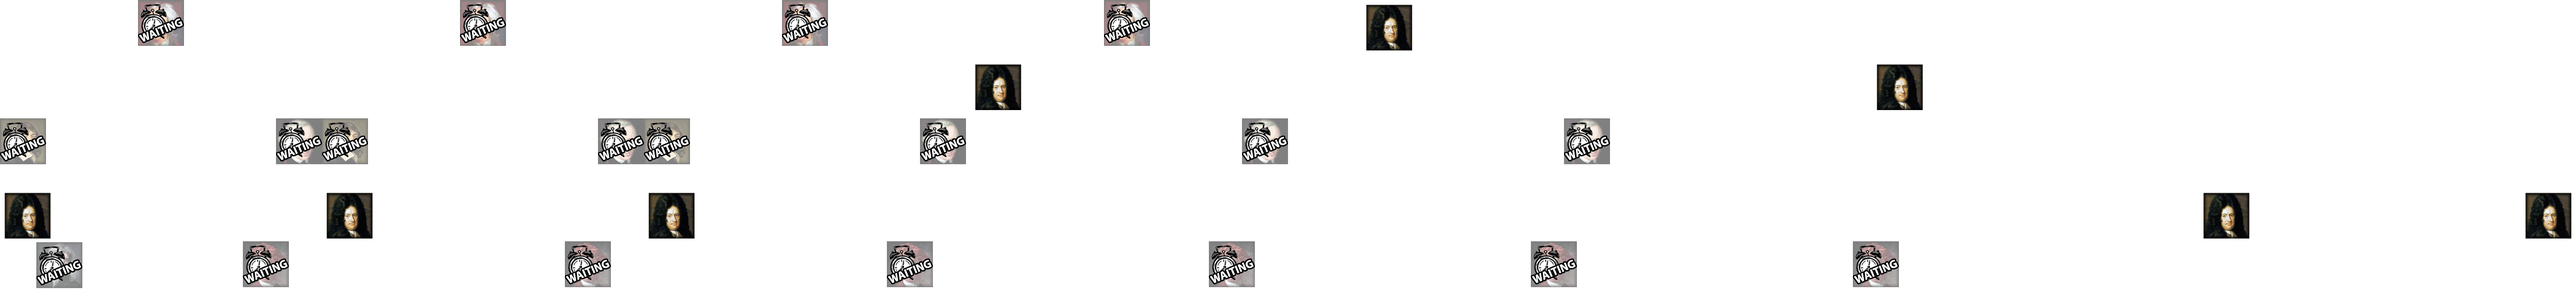
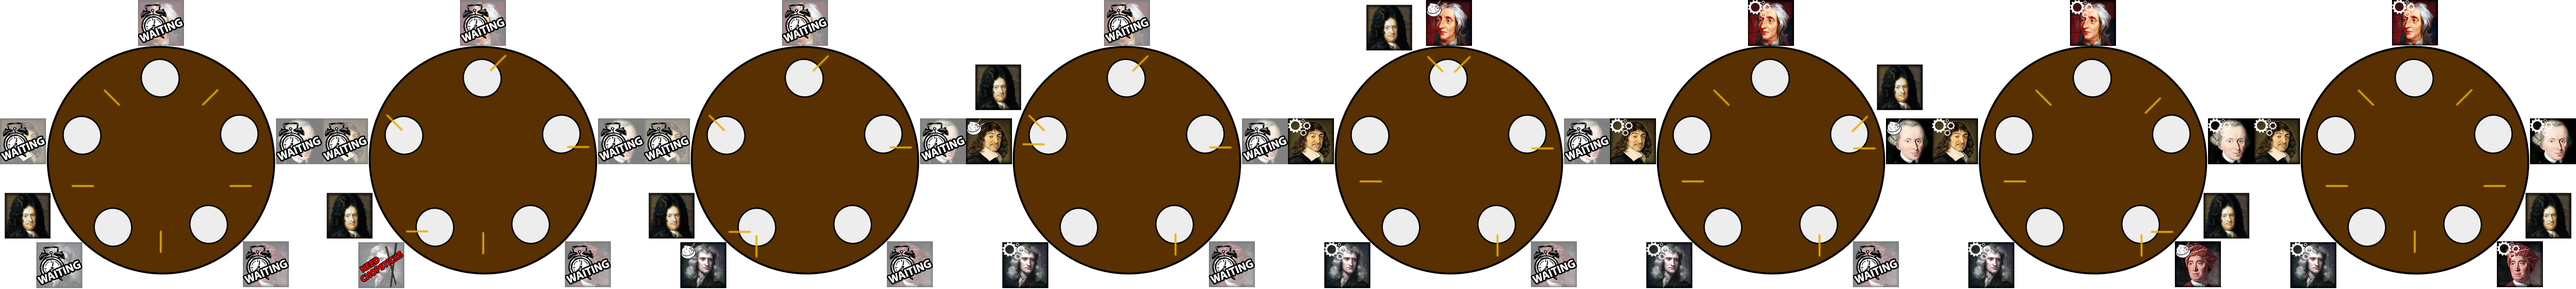
Removes dead code Fixes misaligned arbitrator Fixes animation speedup

diff --git a/PPPP/code.php b/PPPP/code.php
@@ -1,6 +1,3 @@
-<?php
-session_start();
-?>
 <!DOCTYPE html>
 <!-- Latest compiled and minified CSS -->
 <link rel="stylesheet" href="css/bootstrap.css">
@@ -15,22 +12,18 @@ $PID =  $_GET["PID"];
 var sprite_table;
 var sprite_arbitrator;
 
+var test = 0;
+
 var table_image = new Image();
 var numbers_image = new Image();
 var arbitrator_image = new Image();
 
-var sprite_deadlock = new Image();
-sprite_deadlock.src = "code_block_assets/fail_deadlock.png";
-
-var sprite_starvation = new Image();
-sprite_starvation.src = "code_block_assets/fail_starvation.png";
-
 function sprite (options) {
-
+				
     var that = {},
         frameIndex = 0,
         tickCount = 0,
-		ticksPerFrame = 240,
+		ticksPerFrame = 240 * test,
 		numberOfFrames = options.numberOfFrames || 1;
 
     that.context = options.context;
@@ -39,7 +32,7 @@ function sprite (options) {
     that.image = options.image;
 
 	that.render = function () {
-
+			
 		// Clear the canvas
     	that.context.clearRect(0, 0, that.width, that.height);
 
@@ -61,13 +54,13 @@ function sprite (options) {
 	that.update = function () {
 
         tickCount += 1;
-
+			
         if (tickCount > ticksPerFrame) {
-
+        
         	tickCount = 0;
-
+        	
 			// If the current frame index is in range
-            if (frameIndex < numberOfFrames - 1) {
+            if (frameIndex < numberOfFrames - 1) {	
                 // Go to the next frame
                 frameIndex += 1;
 			}
@@ -83,7 +76,7 @@ function sprite (options) {
 function animationLoop () {
 
   window.requestAnimationFrame(animationLoop);
-
+  
   sprite_table.update();
   sprite_table.render();
   if(sprite_arbitrator) {
@@ -92,7 +85,6 @@ function animationLoop () {
   }
 }
 
-var test = 0;
 var dpBlocks = ["do_action","if_too_hungry","release_sticks","report_starvation","exit_failure","close1","if_not_full","if_has_sticks","eat_until_full","blank1","blank2","blank3","close2","else1","hunger++","request_sticks_no_order","blank4","blank5","repeat_do_action","close3","close4","if_done_thinking","release_sticks","think","exit_success","close5","close6"];
 var mainBlocks = ["number_sticks_no_order","run_philosophers","while_true","if_stick_request","give_available_sticks","blank200","blank201","blank202","blank203","blank204","close200","close201"];
 var dpToolbox = ["request_sticks_in_order","eat_until_timer_ends","blank100","blank101"];
@@ -221,11 +213,11 @@ function draw_table(success) {
 			break;
 		case 3:
 			frames = 8;
-			table_image.src = "code_block_assets/success.png";
+			table_image.src = "code_block_assets/arbitrator_layer.png";
 			break;
 		case 4:
 			frames = 8;
-			table_image.src = "code_block_assets/success.png";
+			table_image.src = "code_block_assets/arbitrator_layer.png";
 			break;
 		default:
 			alert("Source image for code test animation could not load.\nPlease try again.");
@@ -243,7 +235,6 @@ function draw_table(success) {
 	});
 
 	sprite_table.render();
-
 	table_image.addEventListener("load", animationLoop);
 
 	return 0;
@@ -252,23 +243,23 @@ function draw_table(success) {
 function draw_numbers(mode) {	
 	if(mode > 0) {
 		numbers_image.src = "code_block_assets/number_layer.png";
-		var canvas = document.getElementById('layer3');
+		var canvas = document.getElementById('layer2');
 		var inner = canvas.getContext("2d");
 		inner.drawImage(numbers_image, 0, 0);
 	}
 	else {
 		numbers_image.src = " ";
-		var layer3 = document.getElementById('layer3')
-		var context = layer3.getContext('2d');
-		context.clearRect(0, 0, layer3.width, layer3.height);
+		var layer2 = document.getElementById('layer2')
+		var context = layer2.getContext('2d');
+		context.clearRect(0, 0, layer2.width, layer2.height);
 	}
 	return 0;
 }
 
 function draw_arbitrator(mode) {
-	if(mode > 0) {
+	if(mode == 1) {
 		arbitrator_image.src = "code_block_assets/arbitrator_layer.png"
-		var canvas = document.getElementById('layer2');
+		var canvas = document.getElementById('layer3');
 		sprite_arbitrator = sprite({
     	context: canvas.getContext("2d"),
     	width: 700,
@@ -280,11 +271,17 @@ function draw_arbitrator(mode) {
 		sprite_arbitrator.render();
 		arbitrator_image.addEventListener("load", animationLoop);
 	}
+	else if(mode == 2) {
+		arbitrator_image.src = "code_block_assets/arbitrator_fail.png";
+		var canvas = document.getElementById('layer3');
+		var inner = canvas.getContext("2d");
+		inner.drawImage(numbers_image, 0, 0);
+	}
 	else {
 		arbitrator_image.src = " ";
-		var layer2 = document.getElementById('layer2')
-		var context = layer2.getContext('2d');
-		context.clearRect(0, 0, layer2.width, layer2.height);
+		var layer3 = document.getElementById('layer3')
+		var context = layer3.getContext('2d');
+		context.clearRect(0, 0, layer3.width, layer3.height);
 	}
 	return 0;
 }
@@ -300,8 +297,12 @@ function animate(stick_mode, arbitrator_mode, success) {
 function run() {
 	transaction("Run My Code Clicked");
 	var next = document.getElementById('next_button');
-	next.setAttribute("href", "compare.php?PID=<?=$PID?>");
-	test = 1;
+	next.setAttribute("href", "thankyou.php?PID=<?=$PID?>");
+	test += 1;
+
+	var layer1 = document.getElementById('layer1')
+	var context = layer2.getContext('2d');
+	context.clearRect(0, 0, layer1.width, layer1.height);
 
 	var eat_until_full = -1;
 	var eat_until_timer_ends = -1;
@@ -412,8 +413,12 @@ function run() {
 	if(number_sticks_in_order != -1) {
 		stick_mode = 1;
 	}
-	if(interrupt_current_action != -1) {
+
+	if(interrupt_current_action != -1 && (success > 0 && success < 3)) {
 		arbitrator_mode = 1;
+	}
+	else if(interrupt_current_action != -1 && success <= 0) {
+		arbitrator_mode = 2;
 	}
 	if(success < 1) {
 		if(eat_until_full != -1 && (run_timer == -1 && interrupt_current_action == -1)) {
@@ -447,7 +452,6 @@ function run() {
 
 
   <?
-	$pageNum = 6;
   include 'nav.php';
   $SESSION['started'] = "t";
   ?>
@@ -615,30 +619,12 @@ div[class="bigBox"] {float: left; padding: 0px 0px 0px 10px}
 </div>
 
 <div id="animation" style="display: none">
-<div id="canvasesdiv" style="position:relative; width:700px; height:630px">
-<canvas id="layer1"
-style="z-index: 1;
-position:absolute;
-left:0px;
-top:0px;
-" height="630px" width="700px">
-</canvas>
+<div id="canvasesdiv" style="position:relative; left: 128px; width:700px; height:630px">
+<canvas id="layer1" style="z-index: 1; position:absolute; left:0px; top:0px;" height="630px" width="700px"></canvas>
 
-<canvas id="layer2"
-style="z-index: 2;
-position:absolute;
-left:0px;
-top:0px;
-" height="630px" width="700px">
-</canvas>
+<canvas id="layer2" style="z-index: 2; position:absolute; left:0px; top:0px;" height="630px" width="700px"></canvas>
 
-<canvas id="layer3"
-style="z-index: 3;
-position:absolute;
-left:0px;
-top:0px;
-" height="630px" width="700px">
-</canvas>
+<canvas id="layer3" style="z-index: 3; position:absolute; left:0px; top:0px;" height="630px" width="700px"></canvas>
 </div>
 </div>
 
